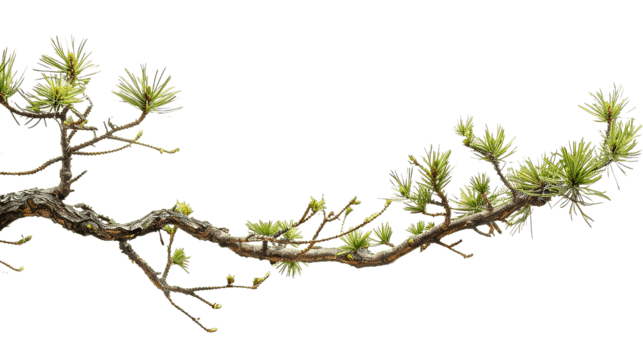
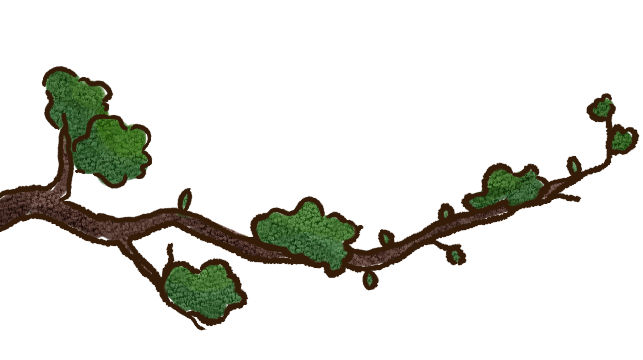
Added a death screen and updated lvl 2 sprites

Changed region(s): [[0.0, 0.0917, 1.0, 0.9472], [0.0, 0.7333, 0.0311, 0.7639]]

diff --git a/Metamorphosis/Main.cpp b/Metamorphosis/Main.cpp
@@ -61,15 +61,24 @@ int main()
                     else {
                         game.inMenu = false;
                     }
-
-                    
                 }
 
-                if ((event->is<sf::Event::KeyReleased>() && keyEvent->code == sf::Keyboard::Key::Escape) && CurrentLevel() != 0) {
+                //return to previous screen if you are in level select
+                if ((event->is<sf::Event::KeyReleased>() && keyEvent->code == sf::Keyboard::Key::Escape) && (CurrentLevel() != 0 && game.playerDead && menu.inLevelSelect)) {
+                    menu.DeathScreen(camera, window);
+                }else  if ((event->is<sf::Event::KeyReleased>() && keyEvent->code == sf::Keyboard::Key::Escape) && (CurrentLevel() != 0 && menu.inLevelSelect)) {
+                    menu.PauseScreen(camera, window);
+                }
+                else if ((event->is<sf::Event::KeyReleased>() && keyEvent->code == sf::Keyboard::Key::Escape) && CurrentLevel() ){
                     //pause or unpause the game
                     game.inMenu = !game.inMenu;
                     isPaused = !isPaused;
                     menu.PauseScreen(camera, window);
+                }
+
+                //return to main menu
+                if ((event->is<sf::Event::KeyReleased>() && keyEvent->code == sf::Keyboard::Key::Escape) && CurrentLevel() == 0 && menu.inLevelSelect) {
+                    menu.MainMenu(camera, window);
                 }
             }
 
@@ -123,6 +132,12 @@ int main()
                             if (isPaused) {
                                 isPaused = false;
                             }
+                            else if (game.inDeathScreen) {
+                                SelectLevel(CurrentLevel());
+                                game.playerDead = false;
+                                game.inDeathScreen = false;
+                                game.Begin(*window);
+                            }
                             //start the game
                             else {
                                 game.LevelComplete = true;
@@ -136,6 +151,7 @@ int main()
                         case 3:
                             //level select
                             menu.LevelSelectScreen(camera, window);
+                            game.inDeathScreen = false;
                             break;
                         }
                     }
@@ -146,6 +162,11 @@ int main()
         if (game.LevelComplete) {
             ChangeLevels();
             game.Begin(*window);
+        }
+
+        if (game.inDeathScreen) {
+            menu.DeathScreen(camera, window);
+            game.inMenu = true;
         }
 
        window->setView(camera.getView(window->getSize()));

diff --git a/Metamorphosis/Level2.cpp b/Metamorphosis/Level2.cpp
@@ -34,6 +34,7 @@ int leftEdge;
 
 void Level2::Restart() {
 	stageComplete = false;
+	playerDied = false;
 
 	Physics::Init(); 
 
@@ -41,6 +42,10 @@ void Level2::Restart() {
 	chrysalis.hitBranch = false;
 	chrysalis.hitGround = false;
 	chrysalis.Begin();
+
+	//place the branches and boarder 100px away from the player on either side
+	leftEdge = (chrysalis.position.x - 100);
+	rightEdge = (chrysalis.position.x + 100);
 
 	//make the first boarders
 	boarder.position.x = leftEdge - 20;
@@ -98,10 +103,6 @@ void Level2::Restart() {
 void Level2::Begin(const sf::Window& window) {
 	camera->position = sf::Vector2f(0, 0);
 
-	//place the branches and boarder 100px away from the player on either side
-	leftEdge = (chrysalis.position.x - 100) ;
-	rightEdge = (chrysalis.position.x + 100) ;
-
 	Restart();
 }
 
@@ -111,7 +112,7 @@ void Level2::Update(float deltaTime) {
 	camera->position = chrysalis.position;
 
 	if (chrysalis.hitBranch) {
-		Restart();
+		playerDied = true;
 	}
 	if (chrysalis.hitGround) {
 		stageComplete = true;

diff --git a/Metamorphosis/Level3.cpp b/Metamorphosis/Level3.cpp
@@ -32,6 +32,8 @@ float topEdge;
 
 void Level3::Restart() {
 	stageComplete = false;
+	playerDied = false;
+
 
 	//find the edges of the screen relative to the camera
 	bottomEdge = (camera->getViewSize().y / 2);
@@ -103,10 +105,10 @@ void Level3::Update(float deltaTime) {
 
 	//playerr dies if they hit a bush or vine OR if they go off screen
 	if (butterfly.collided) {
-		Restart();
+		playerDied = true;
 	}
 	if (butterfly.position.y > bottomEdge || butterfly.position.y < topEdge) {
-		Restart();
+		playerDied = true;
 	}
 	//player wins when they land on flower
 	if (butterfly.onFlower)

diff --git a/Metamorphosis/Level4.cpp b/Metamorphosis/Level4.cpp
@@ -44,6 +44,9 @@ std::vector<int> waspOrder = { 0 , 1, 2, 3, 3 , 2, 3, 1, 0, 2, 3, 1, 2, 3, 3, 1,
 void Level4::Restart() {
 	Physics::Init();
 
+	playerDied = false;
+	stageComplete = false;
+
 	spawnedWasps = 0;
 	despawnedWasps = 0;
 	waspTime = 2;
@@ -151,7 +154,7 @@ void Level4::Update(float deltaTime) {
 			//count how many wasps have passed
 			despawnedWasps++;
 		}else if (wasp->hitEggs) {
-			Restart();
+			playerDied = true;
 		}
 
 	}

diff --git a/Metamorphosis/Level1.cpp b/Metamorphosis/Level1.cpp
@@ -143,6 +143,7 @@ void Level1::CreateMap(std::vector<std::vector<int>> map) {
 
 void Level1::Restart() {
 	stageComplete = false;
+	playerDied = false;
 
 	leaves.clear();
 	mantises.clear();
@@ -189,7 +190,7 @@ void Level1::Update(float deltaTime) {
 
 	if (caterpillar.hitMantis == true) {
 		//ensure mantises and leaves dont stack between deaths
-		Restart();
+		playerDied = true;
 	}
 
 	camera->position = caterpillar.position;

diff --git a/Metamorphosis/Ground.cpp b/Metamorphosis/Ground.cpp
@@ -25,5 +25,5 @@ void Ground::Begin() {
 }
 
 void Ground::Draw(Renderer& renderer) {
-	renderer.Draw(Resources::textures["Ground.png"], position, sf::Vector2f(500, 500));
+	renderer.Draw(Resources::textures["Ground.png"], { position.x , position.y + 260 }, sf::Vector2f(500, 500));
 }

diff --git a/Metamorphosis/Game.cpp b/Metamorphosis/Game.cpp
@@ -72,6 +72,11 @@ void Game::Update(float deltaTime)
 		level4.Update(deltaTime);
 		break;
 	}
+
+	if (level1.playerDied || level2.playerDied || level3.playerDied || level4.playerDied) {
+		playerDead = true;
+		inDeathScreen = true;
+	}
 }
 
 void Game::Render(Renderer& renderer)

diff --git a/Metamorphosis/Butterfly.cpp b/Metamorphosis/Butterfly.cpp
@@ -30,6 +30,10 @@ void Butterfly::Begin() {
 	fixtureDef.shape = &polygonShape;
 	body->CreateFixture(&fixtureDef);
 
+	//facing up
+	angle = 0;
+	spriteAngle = sf::degrees(0);
+
 }
 
 void Butterfly::Update(float deltaTime) {

diff --git a/Metamorphosis/Game.h b/Metamorphosis/Game.h
@@ -17,4 +17,8 @@ public:
 
 	bool inMenu = false;
 	bool LevelComplete = false;
+	bool inDeathScreen = false;
+
+	bool restartLevel = false;
+	bool playerDead = false;
 };

diff --git a/Metamorphosis/Physics.cpp b/Metamorphosis/Physics.cpp
@@ -163,6 +163,6 @@ void Physics::DebugDraw(Renderer& renderer)
 		world->SetDebugDraw(debugDraw);
 	}
 
-	//world->DrawDebugData();
+	world->DrawDebugData();
 }
 

diff --git a/Metamorphosis/Level4.h b/Metamorphosis/Level4.h
@@ -20,6 +20,7 @@ public:
 	Camera* camera;
 
 	bool stageComplete = false;
+	bool playerDied = false;
 };
 
 void DeleteWasp(Wasp* wasp);

diff --git a/Metamorphosis/Level1.h b/Metamorphosis/Level1.h
@@ -20,6 +20,7 @@ public:
 	Camera *camera;
 
 	bool stageComplete = false;
+	bool playerDied = false;
 
 };
 
